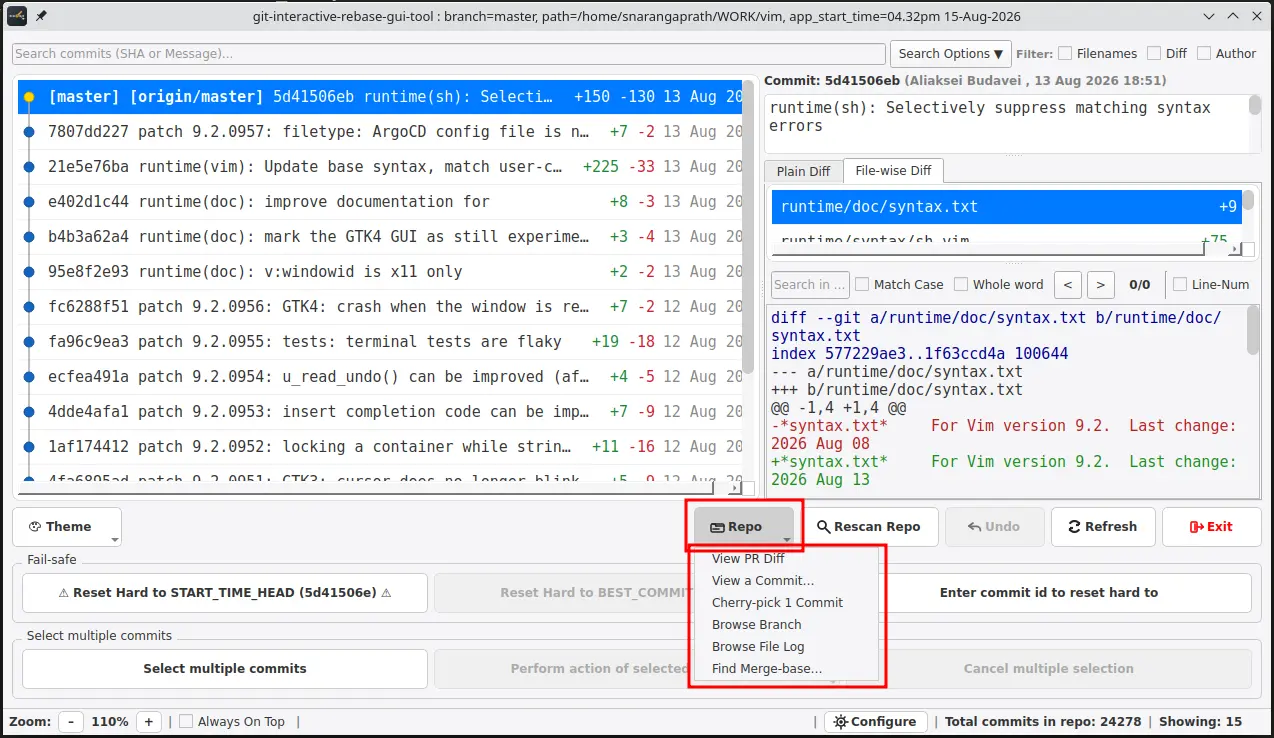
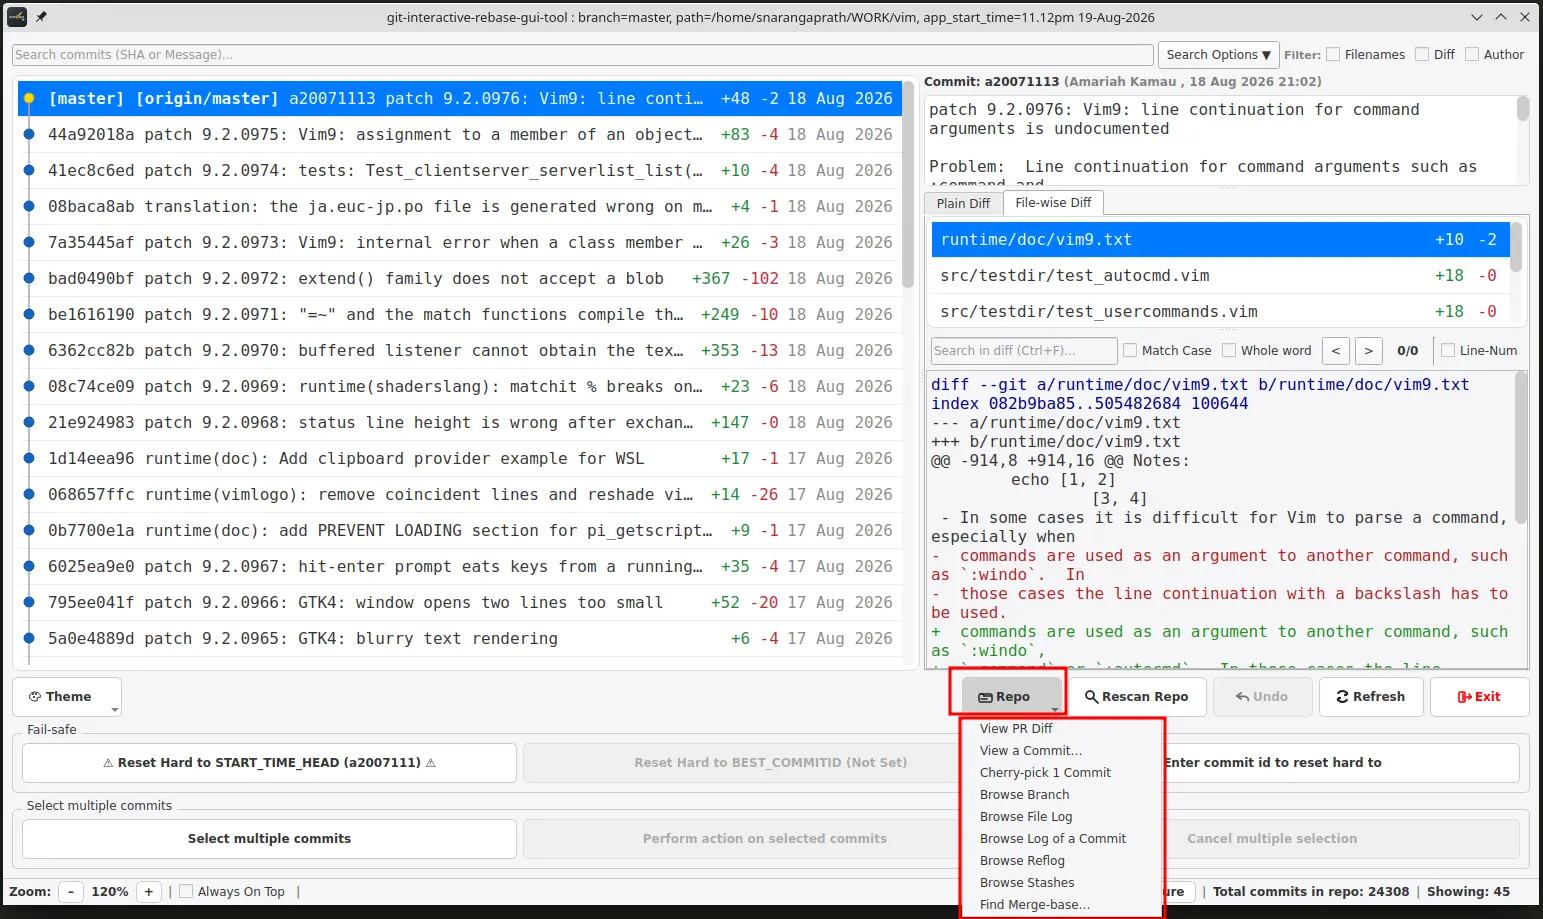
Add screenshots for Browse Log of a Commit, Browse Reflog, and Browse Stashes

Changed region(s): [[0.0, 0.0, 1.0, 1.0]]

diff --git a/docs/screenshots.md b/docs/screenshots.md
@@ -689,7 +689,7 @@ View the complete history of a single file.
 ## 23. Browse Log of a Commit
 Open a read-only history window for any commit.
 
-**Screenshot:** `screenshots/browse-commit-log.webp` *(placeholder — the screenshot will be captured and added here)*
+**Screenshot:** `screenshots/browse-commit-log.webp`
 
 ![Browse Log of a Commit](screenshots/browse-commit-log.webp)
 
@@ -700,7 +700,7 @@ Open a read-only history window for any commit.
 ## 24. Browse Reflog
 Open a read-only window of the repository's HEAD reflog.
 
-**Screenshot:** `screenshots/browse-reflog.webp` *(placeholder — the screenshot will be captured and added here)*
+**Screenshot:** `screenshots/browse-reflog.webp`
 
 ![Browse Reflog](screenshots/browse-reflog.webp)
 
@@ -717,7 +717,7 @@ Right-click an entry for **Show log** / **Copy SHA to clipboard**.
 ## 25. Browse Stashes
 Open a read-only window of the repository's stash list.
 
-**Screenshot:** `screenshots/browse-stash.webp` *(placeholder — the screenshot will be captured and added here)*
+**Screenshot:** `screenshots/browse-stash.webp`
 
 ![Browse Stashes](screenshots/browse-stash.webp)
 
